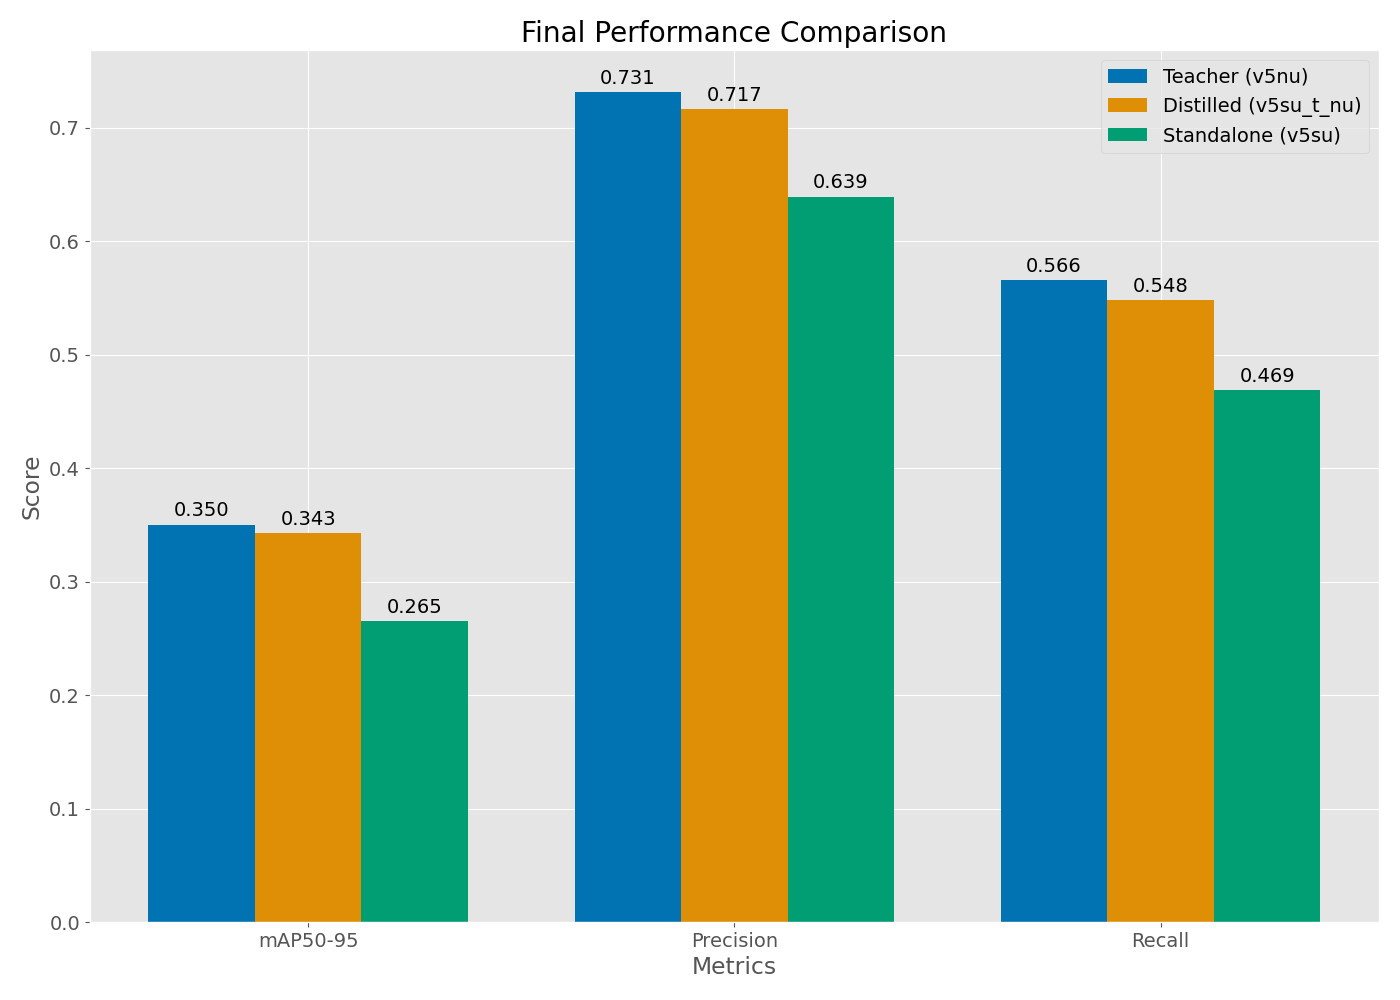
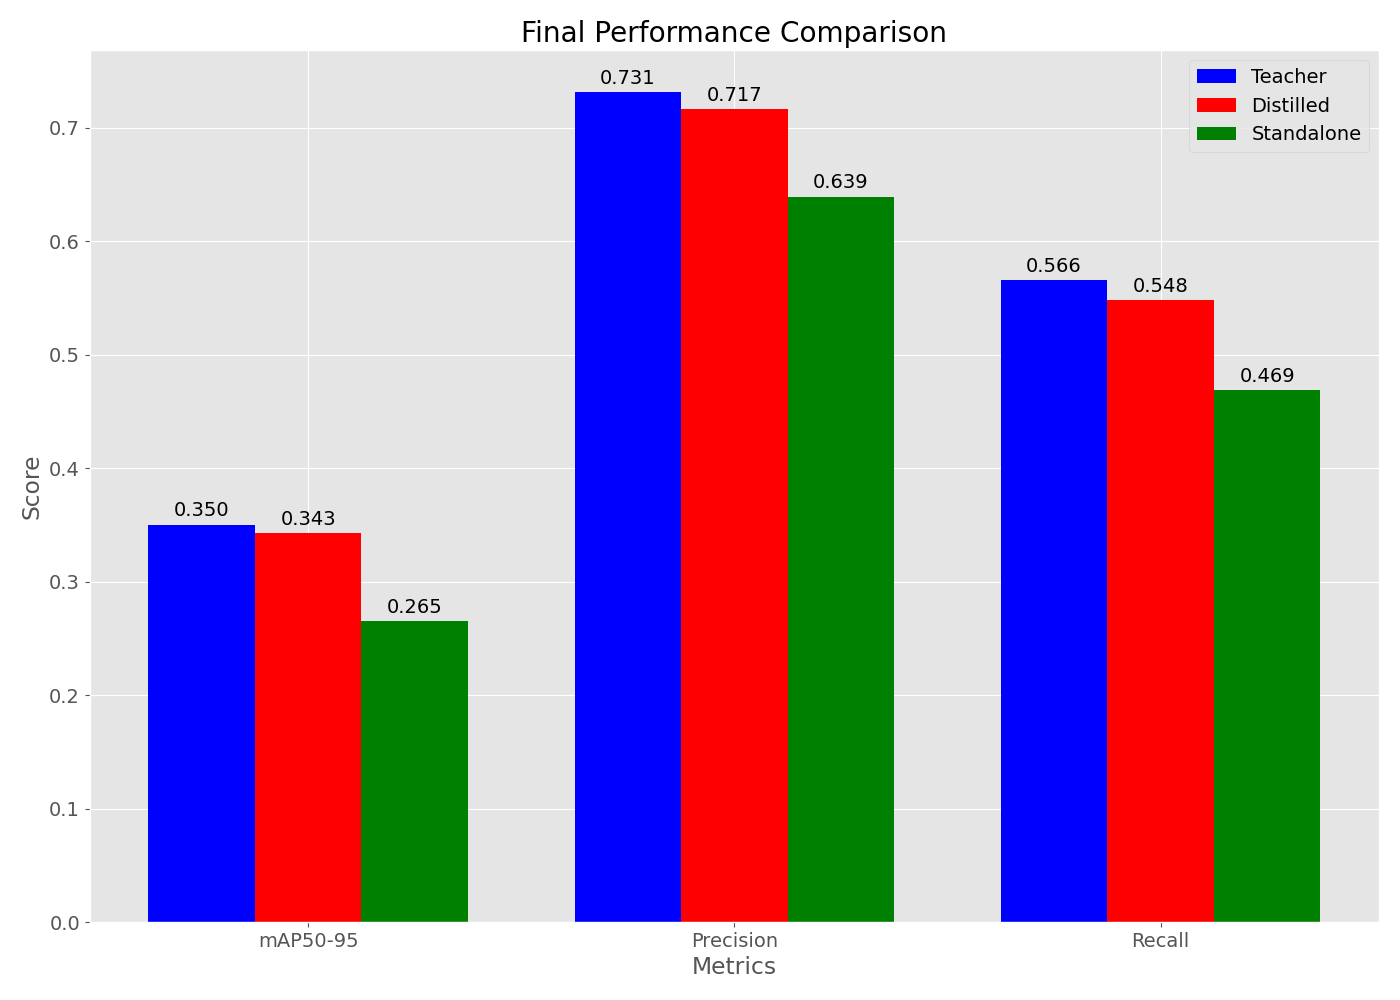
result

diff --git a/compare.py b/compare.py
@@ -8,6 +8,12 @@ standalone_df = pd.read_csv('models/v5nu/results.csv')
 distilled_df = pd.read_csv('models/v5su_t_nu/results.csv')
 teacher_df = pd.read_csv('models/v5su/results.csv')
 
+teacher_color = 'blue'
+distilled_color = 'red'
+standalone_color = 'green'
+
+
+
 # 设置绘图样式
 plt.style.use('ggplot')
 sns.set_palette("colorblind")
@@ -18,9 +24,9 @@ fig = plt.figure(figsize=(20, 24))
 
 # 1. mAP50-95 对比
 ax1 = fig.add_subplot(3, 2, 1)
-ax1.plot(teacher_df['epoch'], teacher_df['metrics/mAP50-95(B)'], label='Teacher (v5nu)')
-ax1.plot(distilled_df['epoch'], distilled_df['metrics/mAP50-95(B)'], label='Distilled (v5su_t_nu)')
-ax1.plot(standalone_df['epoch'], standalone_df['metrics/mAP50-95(B)'], label='Standalone (v5su)')
+ax1.plot(teacher_df['epoch'], teacher_df['metrics/mAP50-95(B)'], label='Teacher',color=teacher_color)
+ax1.plot(distilled_df['epoch'], distilled_df['metrics/mAP50-95(B)'], label='Distilled',color=distilled_color)
+ax1.plot(standalone_df['epoch'], standalone_df['metrics/mAP50-95(B)'], label='Standalone',color=standalone_color)
 ax1.set_title('mAP50-95 Comparison')
 ax1.set_xlabel('Epochs')
 ax1.set_ylabel('mAP50-95')
@@ -29,9 +35,9 @@ ax1.grid(True)
 
 # 2. Precision 对比
 ax2 = fig.add_subplot(3, 2, 2)
-ax2.plot(teacher_df['epoch'], teacher_df['metrics/precision(B)'], label='Teacher (v5nu)')
-ax2.plot(distilled_df['epoch'], distilled_df['metrics/precision(B)'], label='Distilled (v5su_t_nu)')
-ax2.plot(standalone_df['epoch'], standalone_df['metrics/precision(B)'], label='Standalone (v5su)')
+ax2.plot(teacher_df['epoch'], teacher_df['metrics/precision(B)'], label='Teacher',color=teacher_color)
+ax2.plot(distilled_df['epoch'], distilled_df['metrics/precision(B)'], label='Distilled',color=distilled_color)
+ax2.plot(standalone_df['epoch'], standalone_df['metrics/precision(B)'], label='Standalone',color=standalone_color)
 ax2.set_title('Precision Comparison')
 ax2.set_xlabel('Epochs')
 ax2.set_ylabel('Precision')
@@ -40,9 +46,9 @@ ax2.grid(True)
 
 # 3. Recall 对比
 ax3 = fig.add_subplot(3, 2, 3)
-ax3.plot(teacher_df['epoch'], teacher_df['metrics/recall(B)'], label='Teacher (v5nu)')
-ax3.plot(distilled_df['epoch'], distilled_df['metrics/recall(B)'], label='Distilled (v5su_t_nu)')
-ax3.plot(standalone_df['epoch'], standalone_df['metrics/recall(B)'], label='Standalone (v5su)')
+ax3.plot(teacher_df['epoch'], teacher_df['metrics/recall(B)'], label='Teacher',color=teacher_color)
+ax3.plot(distilled_df['epoch'], distilled_df['metrics/recall(B)'], label='Distilled',color=distilled_color)
+ax3.plot(standalone_df['epoch'], standalone_df['metrics/recall(B)'], label='Standalone',color=standalone_color)
 ax3.set_title('Recall Comparison')
 ax3.set_xlabel('Epochs')
 ax3.set_ylabel('Recall')
@@ -51,9 +57,9 @@ ax3.grid(True)
 
 # 4. Box Loss 对比
 ax4 = fig.add_subplot(3, 2, 4)
-ax4.plot(teacher_df['epoch'], teacher_df['val/box_loss'], label='Teacher (v5nu)')
-ax4.plot(distilled_df['epoch'], distilled_df['val/box_loss'], label='Distilled (v5su_t_nu)')
-ax4.plot(standalone_df['epoch'], standalone_df['val/box_loss'], label='Standalone (v5su)')
+ax4.plot(teacher_df['epoch'], teacher_df['val/box_loss'], label='Teacher',color=teacher_color)
+ax4.plot(distilled_df['epoch'], distilled_df['val/box_loss'], label='Distilled',color=distilled_color)
+ax4.plot(standalone_df['epoch'], standalone_df['val/box_loss'], label='Standalone',color=standalone_color)
 ax4.set_title('Validation Box Loss Comparison')
 ax4.set_xlabel('Epochs')
 ax4.set_ylabel('Box Loss')
@@ -62,9 +68,9 @@ ax4.grid(True)
 
 # 5. Class Loss 对比
 ax5 = fig.add_subplot(3, 2, 5)
-ax5.plot(teacher_df['epoch'], teacher_df['val/cls_loss'], label='Teacher (v5nu)')
-ax5.plot(distilled_df['epoch'], distilled_df['val/cls_loss'], label='Distilled (v5su_t_nu)')
-ax5.plot(standalone_df['epoch'], standalone_df['val/cls_loss'], label='Standalone (v5su)')
+ax5.plot(teacher_df['epoch'], teacher_df['val/cls_loss'], label='Teacher',color=teacher_color)
+ax5.plot(distilled_df['epoch'], distilled_df['val/cls_loss'], label='Distilled',color=distilled_color)
+ax5.plot(standalone_df['epoch'], standalone_df['val/cls_loss'], label='Standalone',color=standalone_color)
 ax5.set_title('Validation Class Loss Comparison')
 ax5.set_xlabel('Epochs')
 ax5.set_ylabel('Class Loss')
@@ -73,9 +79,9 @@ ax5.grid(True)
 
 # 6. DFL Loss 对比
 ax6 = fig.add_subplot(3, 2, 6)
-ax6.plot(teacher_df['epoch'], teacher_df['val/dfl_loss'], label='Teacher (v5nu)')
-ax6.plot(distilled_df['epoch'], distilled_df['val/dfl_loss'], label='Distilled (v5su_t_nu)')
-ax6.plot(standalone_df['epoch'], standalone_df['val/dfl_loss'], label='Standalone (v5su)')
+ax6.plot(teacher_df['epoch'], teacher_df['val/dfl_loss'], label='Teacher',color=teacher_color)
+ax6.plot(distilled_df['epoch'], distilled_df['val/dfl_loss'], label='Distilled',color=distilled_color)
+ax6.plot(standalone_df['epoch'], standalone_df['val/dfl_loss'], label='Standalone',color=standalone_color)
 ax6.set_title('Validation DFL Loss Comparison')
 ax6.set_xlabel('Epochs')
 ax6.set_ylabel('DFL Loss')
@@ -105,9 +111,9 @@ ax = fig2.add_subplot(111)
 bar_width = 0.25
 index = np.arange(len(metrics))
 
-bar1 = ax.bar(index, data_array[:, 0], bar_width, label='Teacher (v5nu)')
-bar2 = ax.bar(index + bar_width, data_array[:, 1], bar_width, label='Distilled (v5su_t_nu)')
-bar3 = ax.bar(index + 2 * bar_width, data_array[:, 2], bar_width, label='Standalone (v5su)')
+bar1 = ax.bar(index, data_array[:, 0], bar_width, label='Teacher',color=teacher_color)
+bar2 = ax.bar(index + bar_width, data_array[:, 1], bar_width, label='Distilled',color=distilled_color)
+bar3 = ax.bar(index + 2 * bar_width, data_array[:, 2], bar_width, label='Standalone',color=standalone_color)
 
 ax.set_xlabel('Metrics')
 ax.set_ylabel('Score')
@@ -142,9 +148,9 @@ distilled_time_per_epoch = distilled_df['time'].diff().mean()
 standalone_time_per_epoch = standalone_df['time'].diff().mean()
 
 times = [teacher_time_per_epoch, distilled_time_per_epoch, standalone_time_per_epoch]
-models = ['Teacher (v5nu)', 'Distilled (v5su_t_nu)', 'Standalone (v5su)']
+models = ['Teacher (YOLOv5su)', 'Distilled', 'Standalone (YOLOv5nu)']
 
-ax.bar(models, times, color=['blue', 'green', 'red'])
+ax.bar(models, times, color=[teacher_color,distilled_color,standalone_color])
 ax.set_title('Average Time Per Epoch')
 ax.set_xlabel('Model')
 ax.set_ylabel('Time (seconds)')

diff --git a/speed.py b/speed.py
@@ -9,7 +9,7 @@ model_paths = {
 }
 
 # 定义数据集路径
-data_yaml = "/Users/alpha/Downloads/selfRepo/lodcp/data/bdd100k-yolo/bdd100k.yaml"
+data_yaml = "data/bdd100k-yolo/bdd100k.yaml"
 
 # 创建结果DataFrames
 results_df = pd.DataFrame()
